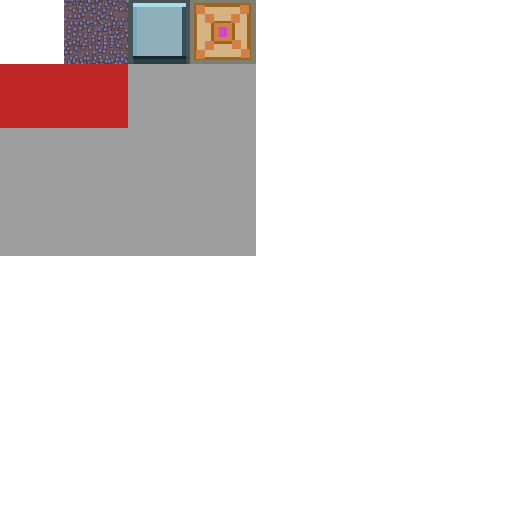
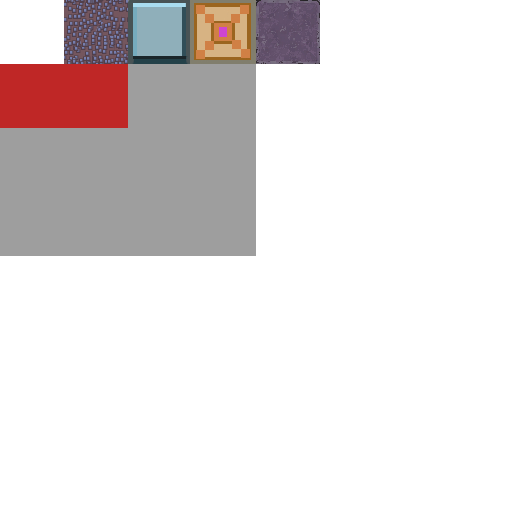
stairs00: полоса плитки по краю площадки, площадка — земля; атлас на стенде без сглаживания
- atlas00: тайлы RECT_ORNAMENT и RECT_EARTH
- stairs00: полоса плитки (опция wTile) вдоль парапета, щёк лестниц и верхних
  ступеней, тень у парапета ложится и на неё; площадка — земля
- ch_redactor: атлас цвета с NearestFilter

Changed region(s): [[0.5, 0.0, 0.625, 0.125]]

diff --git a/src/geometry/07_stairs00/stairs00.ts b/src/geometry/07_stairs00/stairs00.ts
@@ -1,6 +1,6 @@
-import { _GM, type IBuffersGeom, type A3, type F_Nrm } from "_CORE/_M/_gm"
+import { _GM, type IBuffersGeom, type A2, type A3, type F_Nrm } from "_CORE/_M/_gm"
 import {
-    RECT_GRAY, RECT_MOSS,
+    RECT_EARTH, RECT_ORNAMENT,
     UV_WHITE_Q, UV_MOSS_Q, UV_SLAB_Q,
 } from "atlases/atlas00/atlas00"
 import {
@@ -11,6 +11,7 @@ import {
 // Полукруглое крыльцо: площадка-сектор у стены здания, по дуге — подпорная
 // стенка, поднятая над площадкой парапетом. В разрывах дуги — лестницы, врезанные
 // в площадку: ступени — кольцевые секторы, поднимаются от внешнего радиуса к центру.
+// По краю площадки — полоса плитки вдоль парапета, щёк лестниц и верхних ступеней.
 // Здание — по линии z = pos[2], дуга выпирает в +z.
 // Угол a: точка = pos + [cos(a) * rad, y, sin(a) * rad]; 0 — справа (+x), PI — слева.
 //
@@ -36,6 +37,7 @@ type T = {
     stepH?: number, // целевая высота и глубина ступени; высота подгоняется, чтобы целое число ступеней дало hP
     stepD?: number,
     stairs?: T_Stair[],
+    wTile?: number, // ширина полосы плитки по краю площадки, она же сторона плитки
     arcStep?: number, // шаг разбиения дуги видимой геометрии
     arcStepCollide?: number, // то же для прокси, грубее
     colWall?: A3,   // базовые цвета до запечённого освещения; умножаются на тайл атласа
@@ -55,6 +57,7 @@ export const DEFAULT_OPTS: Required<T> = {
         { angle: Math.PI * .25, w: 3 },
         { angle: Math.PI * .75, w: 3 },
     ],
+    wTile: .5,
     arcStep: .5,
     arcStepCollide: 2,
     colWall: [.95, .8, .58],
@@ -86,13 +89,14 @@ export const randomOpts = (): T => {
         stepH: rand(.15, .25),
         stepD: rand(.28, .45),
         stairs,
+        wTile: rand(.35, .7),
         arcStep: rand(.3, 1),
     }
 }
 
 export const stairs00 = (opts: T = {}): IBuffersGeom => {
     const {
-        pos, r, t, hP, hW, stepH, stepD, stairs, arcStep, arcStepCollide,
+        pos, r, t, hP, hW, stepH, stepD, stairs, wTile, arcStep, arcStepCollide,
         colWall, colStep, colTop,
     }: Required<T> = { ...DEFAULT_OPTS, ...opts }
 
@@ -107,8 +111,8 @@ export const stairs00 = (opts: T = {}): IBuffersGeom => {
     const sd = Math.max(Math.min(stepD, (r - .1) / Math.max(1, n - 1)), (t + .01) / Math.max(1, n - 1))
     const rIn = r - (n - 1) * sd
 
-    // площадка целиком серая или заросшая; подступенки — мох, проступи — плита
-    const rectTop = Math.random() < .5 ? RECT_GRAY : RECT_MOSS
+    // площадка — земля, подступенки — мох, проступи — плита
+    const rectTop = RECT_EARTH
 
     // затенение: верх тайла AO_TOP — тень. Прямо — тень на ребре c, d квада, перевёрнуто — на a, b
     const AO_CD = UV_AO_TOP_Q
@@ -133,15 +137,12 @@ export const stairs00 = (opts: T = {}): IBuffersGeom => {
     }
     const radIn: F_Nrm = p => neg(radOut(p))
 
+    const clamp01 = (x: number) => Math.min(1, Math.max(0, x))
     // площадка — плоская проекция сектора в один тайл
-    const topUv = (p: A3) => _GM.rectPoint(rectTop,
-        Math.min(1, Math.max(0, (p[0] - pos[0] + r) / (2 * r))),
-        Math.min(1, Math.max(0, (p[2] - pos[2]) / r)),
-    )
-    const topUvQ = (a: A3, b: A3, cc: A3, dd: A3) => [...topUv(a), ...topUv(b), ...topUv(cc), ...topUv(dd)]
-    // треугольник веера: центр и две точки обода; uv2 — точки AO в центре и на ободе
-    const fanTri = (cen: A3, x: A3, y: A3, aoCen: number[], aoRim: number[]) =>
-        tri(cen, x, y, UP, [...topUv(cen), ...topUv(x), ...topUv(y)], [...aoCen, ...aoRim, ...aoRim], colTop)
+    const topAt = (a: number, rad: number): A2 => {
+        const p = P(a, rad, hP)
+        return _GM.rectPoint(rectTop, clamp01((p[0] - pos[0] + r) / (2 * r)), clamp01((p[2] - pos[2]) / r))
+    }
     const AO_FREE = _GM.rectPoint(RECT_AO_NONE, .5, .5)
 
     // разбиение интервала углов на сегменты по длине дуги внешнего радиуса
@@ -182,35 +183,102 @@ export const stairs00 = (opts: T = {}): IBuffersGeom => {
 
     const center: A3 = P(0, 0, hP)
 
+    // ---- площадка: веер из центра, по краю — полоса плитки шириной wT. Полоса идёт вдоль парапета,
+    // у пролёта поворачивает вдоль щеки лестницы (полоса-«щека» — сектор шириной wT по среднему
+    // радиусу) и идёт вдоль верхней ступени.
+    // У парапета на площадку ложится тень шириной hW: тайл AO ложится на hW, как на внутренней
+    // стенке над площадкой, поэтому полосы тени по обе стороны угла одной ширины
+
+    const rWall = r - t
+    const wT = Math.min(wTile, rIn / 2)
+    const rBand0 = rIn - wT
+    // доля тени на радиусе rad
+    const aoQ = (rad: number) => Math.max(0, 1 - (rWall - rad) / hW)
+
+    // ячейка площадки — сектор [s0, s1] × [ra, rb], при ra = 0 — треугольник веера.
+    // Граница тени rWall - hW всегда среди границ ячеек, поэтому тень внутри ячейки линейна
+    const cell = (s0: number, s1: number, ra: number, rb: number, isShaded: boolean, uvAt: (a: number, rad: number) => A2) => {
+        const shaded = isShaded && aoQ(rb) > 0
+        const ao = (rad: number) => shaded ? _GM.rectPoint(RECT_AO_TOP, .5, aoQ(rad)) : AO_FREE
+        if (ra <= 0) {
+            tri(
+                center, P(s0, rb, hP), P(s1, rb, hP), UP,
+                [...uvAt(s0, 0), ...uvAt(s0, rb), ...uvAt(s1, rb)], [...ao(0), ...ao(rb), ...ao(rb)], colTop,
+            )
+            return
+        }
+        quad(
+            P(s0, ra, hP), P(s1, ra, hP), P(s1, rb, hP), P(s0, rb, hP), UP,
+            [...uvAt(s0, ra), ...uvAt(s1, ra), ...uvAt(s1, rb), ...uvAt(s0, rb)],
+            [...ao(ra), ...ao(ra), ...ao(rb), ...ao(rb)], colTop,
+        )
+    }
+    // границы колец от центра до rEnd
+    const radii = (rEnd: number, cuts: number[]): number[] => {
+        const arr = [0, ...cuts.filter(c => c > 1e-4 && c < rEnd - 1e-4), rEnd].sort((a, b) => a - b)
+        return arr.filter((c, i) => i === 0 || c - arr[i - 1] > 1e-4)
+    }
+
+    // кусок дуги [p0, p1] до радиуса rEnd: у края — полоса плиток вдоль дуги
+    const arcPiece = (p0: number, p1: number, rEnd: number, isShaded: boolean) => {
+        const rS = rEnd - wT
+        const count = Math.max(1, Math.round((p1 - p0) * (rEnd - wT / 2) / wT))
+        const tileA = (p1 - p0) / count
+        const sub = Math.max(1, Math.ceil(tileA * rEnd / arcStep))
+        const rr = radii(rEnd, isShaded ? [rS, rWall - hW] : [rS])
+        for (let j = 0; j < count; ++j) {
+            const t0 = p0 + j * tileA
+            const tileUv = (a: number, rad: number) =>
+                _GM.rectPoint(RECT_ORNAMENT, clamp01((a - t0) / tileA), clamp01((rad - rS) / wT))
+            for (let k = 0; k < sub; ++k) {
+                const s0 = t0 + tileA * k / sub
+                const s1 = t0 + tileA * (k + 1) / sub
+                for (let i = 0; i < rr.length - 1; ++i) {
+                    cell(s0, s1, rr[i], rr[i + 1], isShaded, rr[i] >= rS - 1e-4 ? tileUv : topAt)
+                }
+            }
+        }
+    }
+
+    // полоса-«щека» у пролёта: сектор [b0, b1], плитки по радиусу от rBand0 до парапета
+    const bandPiece = (b0: number, b1: number) => {
+        const count = Math.max(1, Math.round((rWall - rBand0) / wT))
+        const tileR = (rWall - rBand0) / count
+        const cuts = [rBand0, rIn, rWall - hW]
+        for (let j = 1; j < count; ++j) cuts.push(rBand0 + j * tileR)
+        const rr = radii(rWall, cuts)
+        for (let i = 0; i < rr.length - 1; ++i) {
+            const ra = rr[i]
+            const rb = rr[i + 1]
+            if (ra < rBand0 - 1e-4) {
+                cell(b0, b1, ra, rb, true, topAt)
+                continue
+            }
+            const tR0 = rBand0 + Math.min(count - 1, Math.floor(((ra + rb) / 2 - rBand0) / tileR)) * tileR
+            cell(b0, b1, ra, rb, true, (a, rad) =>
+                _GM.rectPoint(RECT_ORNAMENT, clamp01((rad - tR0) / tileR), clamp01((a - b0) / (b1 - b0))))
+        }
+    }
+
+    for (let si = 0; si < spans.length; ++si) {
+        const { a0, a1, isStair } = spans[si]
+        if (isStair) {
+            arcPiece(a0, a1, rIn, false)
+            continue
+        }
+        // у пролётов — щёки, между ними — дуга вдоль парапета; у здания щеки нет
+        const d = wT / ((rBand0 + rWall) / 2)
+        let c0 = si > 0 ? a0 + d : a0
+        let c1 = si < spans.length - 1 ? a1 - d : a1
+        if (c0 > c1) c0 = c1 = Math.min(a1, Math.max(a0, (c0 + c1) / 2))
+        if (c0 > a0) bandPiece(a0, c0)
+        if (c1 > c0) arcPiece(c0, c1, rWall, true)
+        if (a1 > c1) bandPiece(c1, a1)
+    }
+
     for (let si = 0; si < spans.length; ++si) {
         const { a0, a1, isStair } = spans[si]
         const segs = split(a0, a1, arcStep)
-
-        // площадка: веер из центра до внутренней грани стенки или до верхней ступени.
-        // У парапета — кольцо шириной hW с тенью у обода: тайл AO ложится на hW, как на внутренней
-        // стенке над площадкой, поэтому полосы тени по обе стороны угла одной ширины
-        const rTop = isStair ? rIn : r - t
-        const rRing = isStair ? rTop : Math.max(0, rTop - hW)
-        for (let k = 0; k < segs.length - 1; ++k) {
-            const s0 = segs[k]
-            const s1 = segs[k + 1]
-            if (rRing > 0) {
-                fanTri(center, P(s0, rRing, hP), P(s1, rRing, hP), AO_FREE, AO_FREE)
-            } else {
-                // кольцо дошло до центра: в центре — та доля тайла, что приходится на rTop
-                fanTri(
-                    center, P(s0, rTop, hP), P(s1, rTop, hP),
-                    _GM.rectPoint(RECT_AO_TOP, .5, 1 - rTop / hW), _GM.rectPoint(RECT_AO_TOP, .5, 1),
-                )
-            }
-            if (rRing > 0 && rRing < rTop) {
-                const a = P(s0, rRing, hP)
-                const b = P(s1, rRing, hP)
-                const cc = P(s1, rTop, hP)
-                const dd = P(s0, rTop, hP)
-                quad(a, b, cc, dd, UP, topUvQ(a, b, cc, dd), AO_CD, colTop)
-            }
-        }
 
         if (isStair) {
             for (let k = 0; k < segs.length - 1; ++k) {

diff --git a/src/atlases/atlas00/atlas00.ts b/src/atlases/atlas00/atlas00.ts
@@ -12,6 +12,10 @@ export const RECT_WHITE: T_TileRect = _GM.tileRect(SIZE, 0, 0, 64, 64)
 export const RECT_MOSS: T_TileRect = _GM.tileRect(SIZE, 64, 0, 64, 64)
 // каменная плита с фаской: светлый край — вверху картинки
 export const RECT_SLAB: T_TileRect = _GM.tileRect(SIZE, 128, 0, 64, 64)
+// плитка с орнаментом, симметричная
+export const RECT_ORNAMENT: T_TileRect = _GM.tileRect(SIZE, 192, 0, 64, 64)
+// земля
+export const RECT_EARTH: T_TileRect = _GM.tileRect(SIZE, 256, 0, 64, 64)
 // 2:1
 export const RECT_RED: T_TileRect = _GM.tileRect(SIZE, 0, 64, 128, 64)
 export const RECT_GRAY: T_TileRect = _GM.tileRect(SIZE, 0, 128, 128, 128)
@@ -21,6 +25,8 @@ export const RECT_GRAY_WIDE: T_TileRect = _GM.tileRect(SIZE, 0, 128, 256, 128)
 export const UV_WHITE: number[] = _GM.rectUv(RECT_WHITE)
 export const UV_MOSS: number[] = _GM.rectUv(RECT_MOSS)
 export const UV_SLAB: number[] = _GM.rectUv(RECT_SLAB)
+export const UV_ORNAMENT: number[] = _GM.rectUv(RECT_ORNAMENT)
+export const UV_EARTH: number[] = _GM.rectUv(RECT_EARTH)
 export const UV_RED: number[] = _GM.rectUv(RECT_RED)
 export const UV_GRAY: number[] = _GM.rectUv(RECT_GRAY)
 export const UV_GRAY_WIDE: number[] = _GM.rectUv(RECT_GRAY_WIDE)
@@ -28,6 +34,8 @@ export const UV_GRAY_WIDE: number[] = _GM.rectUv(RECT_GRAY_WIDE)
 export const UV_WHITE_Q: number[] = _GM.rectUvQ(RECT_WHITE)
 export const UV_MOSS_Q: number[] = _GM.rectUvQ(RECT_MOSS)
 export const UV_SLAB_Q: number[] = _GM.rectUvQ(RECT_SLAB)
+export const UV_ORNAMENT_Q: number[] = _GM.rectUvQ(RECT_ORNAMENT)
+export const UV_EARTH_Q: number[] = _GM.rectUvQ(RECT_EARTH)
 export const UV_RED_Q: number[] = _GM.rectUvQ(RECT_RED)
 export const UV_GRAY_Q: number[] = _GM.rectUvQ(RECT_GRAY)
 export const UV_GRAY_WIDE_Q: number[] = _GM.rectUvQ(RECT_GRAY_WIDE)

diff --git a/src/ch_redactor/index.ts b/src/ch_redactor/index.ts
@@ -106,6 +106,9 @@ async function init(root: Root) {
 
     const mapAtlas = textureLoader.load(atlas00Img)
     mapAtlas.colorSpace = THREE.SRGBColorSpace
+    // чёткие пиксели; без мипмапов соседние тайлы атласа не подмешиваются вдали
+    mapAtlas.magFilter = THREE.NearestFilter
+    mapAtlas.minFilter = THREE.NearestFilter
     const mapAo = textureLoader.load(atlasAo00Img)
     // aoMap читает uv2 геометрии: в three 0.173 это канал 2
     mapAo.channel = 2
